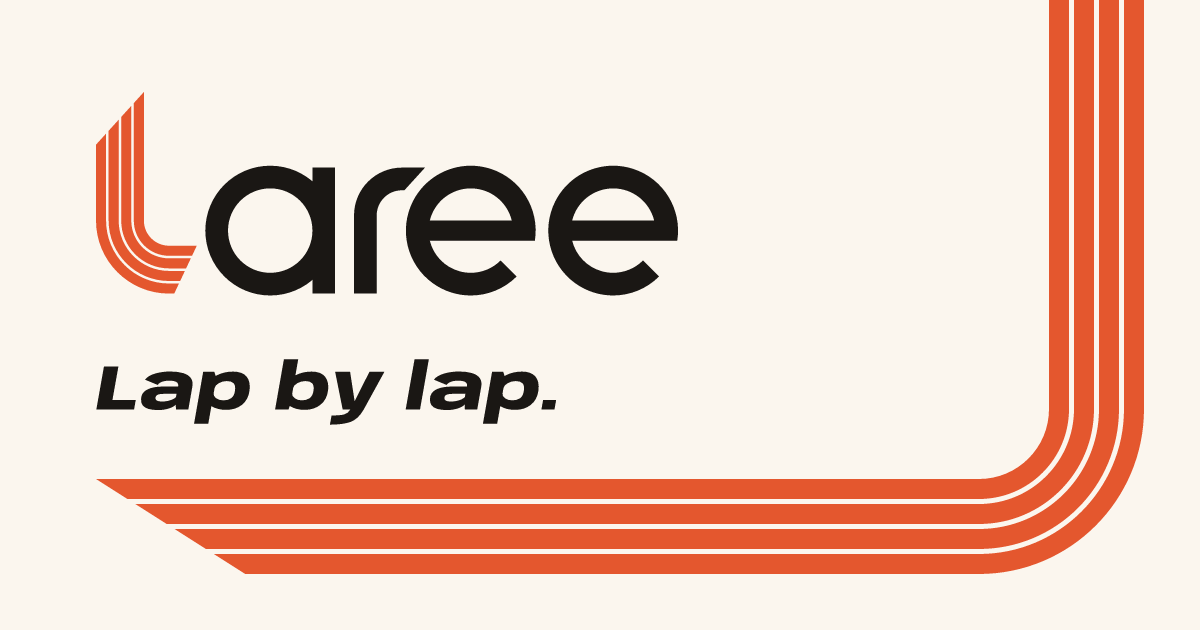
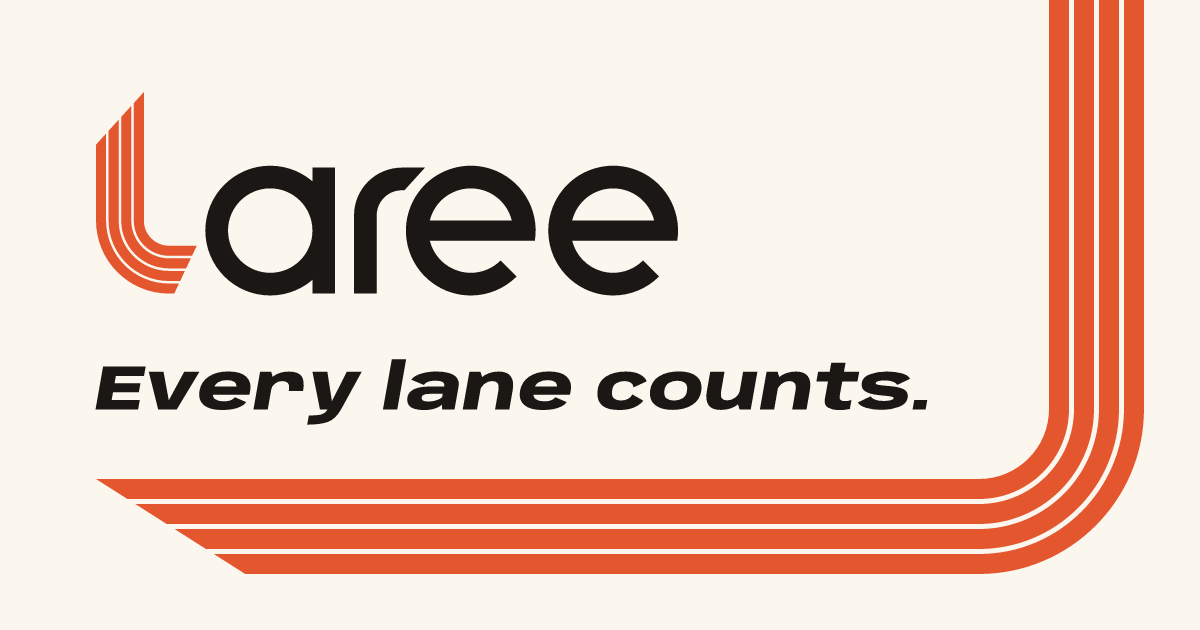
feat(brand): tagline "Every lane counts."
Social image, brand board, role picker, docs. Fix brand board sideways scroll on phones.

Changed region(s): [[0.0925, 0.573, 0.7708, 0.6937]]

diff --git a/src/features/shared/brand/BrandPage.tsx b/src/features/shared/brand/BrandPage.tsx
@@ -9,7 +9,8 @@ import {
   SEMANTIC,
   SPORTS,
   STATUSES,
-  TAGLINES,
+  TAGLINE,
+  TAGLINE_RULES,
   ZONES,
 } from './content.ts'
 import type { Ground, LogoFile } from './content.ts'
@@ -115,7 +116,7 @@ export default function BrandPage() {
           <Logo size={88} title="Laree" />
         </div>
         <h1 className={styles.title}>Brand board</h1>
-        <p className={styles.tagline}>Lap by lap.</p>
+        <p className={styles.tagline}>{TAGLINE.line}</p>
         <p className={styles.heroNote}>
           The l is a 400 m track bend, drawn with lane lines and a real track stagger. This page holds every logo file,
           the colours, the type and the rules for using them.
@@ -125,7 +126,7 @@ export default function BrandPage() {
           <a href="#colour">Colour</a>
           <a href="#type">Type</a>
           <a href="#rules">Rules</a>
-          <a href="#voice">Taglines</a>
+          <a href="#voice">Tagline</a>
         </nav>
       </header>
 
@@ -318,15 +319,19 @@ export default function BrandPage() {
         </div>
       </Section>
 
-      <Section id="voice" title="Two candidate taglines" lede="The recommendation is the first as the tagline and the second as the line that explains the logo. The decision is not made yet.">
-        <div className={styles.taglines}>
-          {TAGLINES.map((t) => (
-            <figure key={t.line} className={styles.taglineCard}>
-              <blockquote className={styles.taglineText}>{t.line}</blockquote>
-              <figcaption>{t.job}</figcaption>
-            </figure>
+      <Section id="voice" title="The tagline" lede="One line. It says in words what the logo shows.">
+        <figure className={styles.taglineCard}>
+          <blockquote className={styles.taglineText}>{TAGLINE.line}</blockquote>
+          <figcaption>{TAGLINE.meaning}</figcaption>
+        </figure>
+        <ul className={styles.rules}>
+          {TAGLINE_RULES.map((r) => (
+            <li key={r.title} className={styles.rule}>
+              <h3>{r.title}</h3>
+              <p>{r.body}</p>
+            </li>
           ))}
-        </div>
+        </ul>
       </Section>
     </div>
   )

diff --git a/src/features/shared/brand/BrandPage.module.css b/src/features/shared/brand/BrandPage.module.css
@@ -40,7 +40,11 @@
     font-stretch: 125%;
     font-weight: 800;
     font-style: italic;
-    font-size: var(--text-2xl);
+    font-synthesis: none;
+    /* Fluid, so the tagline stays on one line on a phone. Never below 21 px: large type only. */
+    font-size: clamp(var(--text-lg), 6vw, var(--text-2xl));
+    line-height: 1.1;
+    text-wrap: balance;
     color: var(--color-display-accent);
   }
 
@@ -350,6 +354,7 @@
     display: grid;
     gap: var(--space-2);
     align-content: start;
+    min-inline-size: 0;
     padding: var(--space-4);
     border: var(--hairline) solid var(--color-rule-strong);
     border-radius: var(--radius-card);
@@ -368,7 +373,9 @@
     line-height: 1.05;
     font-family: var(--font-display);
     font-synthesis: none;
-    font-size: var(--text-3xl);
+    /* Ten expanded digits are one unbreakable word: scale them so a phone never scrolls sideways. */
+    font-size: clamp(var(--text-lg), 8vw, var(--text-3xl));
+    overflow-wrap: anywhere;
   }
 
   .athleteDisplay {
@@ -474,17 +481,11 @@
     padding-inline-start: var(--space-5);
   }
 
-  /* Taglines */
-  .taglines {
-    display: grid;
-    grid-template-columns: repeat(auto-fit, minmax(min(100%, 380px), 1fr));
-    gap: var(--space-4);
-  }
-
+  /* Tagline */
   .taglineCard {
     display: grid;
     gap: var(--space-3);
-    margin: 0;
+    margin: 0 0 var(--space-2);
     padding: var(--space-6);
     border: var(--hairline) solid var(--color-rule-strong);
     border-radius: var(--radius-card);
@@ -499,13 +500,14 @@
     font-weight: 800;
     font-style: italic;
     font-synthesis: none;
-    font-size: var(--text-3xl);
+    font-size: clamp(var(--text-2xl), 7vw, var(--text-4xl));
     line-height: 1.05;
+    text-wrap: balance;
     color: var(--color-display-accent);
   }
 
   .taglineCard figcaption {
-    font-size: var(--text-sm);
+    max-inline-size: 34em;
     color: var(--color-text-muted);
   }
 

diff --git a/src/features/shared/brand/content.ts b/src/features/shared/brand/content.ts
@@ -146,7 +146,14 @@ export const RULES: { title: string; body: string }[] = [
   { title: 'No effects', body: 'No gradients, shadows, glows, bevels or 3D, and no purple in brand artwork.' },
 ]
 
-export const TAGLINES: { line: string; job: string }[] = [
-  { line: 'Lap by lap.', job: 'The tagline. Fitness is built one session and one week at a time. It sits under the wordmark on the social image, in store listings and on sign-in.' },
-  { line: 'Every lane counts.', job: 'The idea behind the logo. Every athlete matters equally, just as every lane runs the same distance. Use it where the logo is explained.' },
+/** The tagline, chosen by the product owner in November 2026. */
+export const TAGLINE = {
+  line: 'Every lane counts.',
+  meaning: 'Every athlete matters equally, just as every lane in the logo runs the same distance.',
+}
+
+export const TAGLINE_RULES: { title: string; body: string }[] = [
+  { title: 'Where it goes', body: 'Under the wordmark on the social image, in store listings and on sign-in, and wherever the logo is explained.' },
+  { title: 'How to write it', body: 'Sentence case, with its full stop. In artwork, set it in Anybody at width 125, weight 800, italic.' },
+  { title: 'Not these', body: 'Never "Lari lah" or "Jom lari": apps called Lari La and JomRun already exist. "Lap by lap." was the other candidate and is not a tagline.' },
 ]

diff --git a/src/features/shared/brand/BrandPage.test.tsx b/src/features/shared/brand/BrandPage.test.tsx
@@ -39,11 +39,13 @@ describe('BrandPage', () => {
     }
   })
 
-  it('shows the heading, both taglines and a hex for every palette entry', () => {
+  it('shows the heading, the tagline and a hex for every palette entry', () => {
     render(<BrandPage />)
     expect(screen.getByRole('heading', { level: 1, name: 'Brand board' })).toBeTruthy()
-    expect(screen.getAllByText('Lap by lap.').length).toBeGreaterThan(0)
-    expect(screen.getByText('Every lane counts.')).toBeTruthy()
+    // Under the logo in the hero, and again in its own section.
+    expect(screen.getAllByText('Every lane counts.')).toHaveLength(2)
+    // The other candidate is named in a rule, never set as a line of its own.
+    expect(screen.queryByText('Lap by lap.')).toBeNull()
     expect(screen.getAllByText('#E4572E').length).toBeGreaterThan(0)
   })
 })

diff --git a/src/app/RolePicker.module.css b/src/app/RolePicker.module.css
@@ -30,6 +30,28 @@
     gap: var(--space-4);
   }
 
+  /* The logo and its tagline are one lockup, as on the social image. */
+  .lockup {
+    display: grid;
+    justify-items: start;
+    gap: var(--space-2);
+  }
+
+  /* 21 px at weight 800 counts as large type, so the display accent is allowed. */
+  .tagline {
+    margin: 0;
+    font-family: var(--font-display);
+    font-variation-settings: "wdth" 125;
+    font-stretch: 125%;
+    font-weight: 800;
+    font-style: italic;
+    font-synthesis: none;
+    font-size: var(--text-lg);
+    line-height: 1.1;
+    text-wrap: balance;
+    color: var(--color-display-accent);
+  }
+
   .title {
     font-size: clamp(var(--text-3xl), 9vw, var(--text-4xl));
     line-height: 1;

diff --git a/src/app/RolePicker.tsx b/src/app/RolePicker.tsx
@@ -34,7 +34,10 @@ export function RolePicker() {
     <div className={styles.page} data-register="athlete" data-screen="S1">
       <div className={styles.lanes} aria-hidden="true" />
       <header className={styles.hero}>
-        <Logo size={72} title="Laree" />
+        <div className={styles.lockup}>
+          <Logo size={72} title="Laree" />
+          <p className={styles.tagline}>Every lane counts.</p>
+        </div>
         <h1 className={styles.title}>Who are you today?</h1>
         <p className={styles.lede}>
           A training planner for triathlon, running and cycling. This is a prototype with made-up data, kept only on

diff --git a/scripts/brand/build-logo.ts b/scripts/brand/build-logo.ts
@@ -84,13 +84,13 @@ function ogImage(tagFont: Outliner): string {
   const top = 92;
   const word = path(C.track, placePath(g.track, s, left, top)) + path(C.ink, placePath(g.letters, s, left, top));
 
-  const tag = tagFont('Lap by lap.', 64, left, top + g.baseline * s + 116);
+  const tag = tagFont('Every lane counts.', 64, left, top + g.baseline * s + 116);
 
   return doc({
     w: W,
     h: H,
     viewBox: `0 0 ${W} ${H}`,
-    title: 'Laree. Lap by lap.',
+    title: 'Laree. Every lane counts.',
     body: rect(0, 0, W, H, C.paper) + path(C.track, bend) + word + path(C.ink, tag.d),
   });
 }

diff --git a/index.html b/index.html
@@ -15,7 +15,7 @@
     <meta property="og:title" content="Laree" />
     <meta property="og:description" content="Training planner for triathlon, running and cycling. A prototype with made-up data." />
     <meta property="og:image" content="./og.png" />
-    <meta property="og:image:alt" content="The Laree wordmark and the tagline Lap by lap." />
+    <meta property="og:image:alt" content="The Laree wordmark and the tagline Every lane counts." />
   </head>
   <body>
     <div id="root"></div>

diff --git a/src/features/shared/brand/assets.ts b/src/features/shared/brand/assets.ts
@@ -39,7 +39,7 @@ export const FILE_BYTES: Record<string, number> = {
   'laree-wordmark-solid.svg': 955,
   'laree-wordmark.svg': 1260,
   'misuse.svg': 82223,
-  'og-image.svg': 6426,
+  'og-image.svg': 8550,
   'laree-app-icon-1024.png': 24897,
   'laree-mark-1024.png': 27219,
   'laree-mark-512.png': 11167,

diff --git a/docs/brand/brand-guide.md b/docs/brand/brand-guide.md
@@ -164,14 +164,17 @@ Two product rules shape the copy as well:
 
 In running text, write **Laree**: a capital L, then lowercase. Never write LAREE, Lari or Larée. The lowercase "laree" belongs to the logo only. The name is said la-REE.
 
-## Taglines
+## Tagline
 
-There are two lines, and each has a job.
+**Every lane counts.**
 
-- **Lap by lap.** This is the tagline. It is about patience: fitness is built one session and one week at a time. It sits under the wordmark on the social image, in store listings and on the sign-in screen.
-- **Every lane counts.** This is the idea behind the brand. Use it where the logo is explained, such as the about page, the coach's onboarding or a slide in a talk. It says that every athlete matters equally, just as every lane in the logo runs the same distance.
+This is the tagline, and it is also the idea behind the brand: every athlete matters equally, just as every lane in the logo runs the same distance. The product owner chose it in November 2026.
 
-The recommendation is "Lap by lap." as the tagline, with "Every lane counts." as the line that explains the logo. [PRODUCT.md](../../PRODUCT.md) lists the tagline as undecided, so the product owner has the final word.
+- It sits under the wordmark on the social image, in store listings and on the sign-in screen. In the prototype it sits under the logo on the role picker.
+- Use it wherever the logo is explained, such as the about page, the coach's onboarding or a slide in a talk.
+- Write it in sentence case, with its full stop. In artwork it is set in Anybody at width 125, weight 800, italic.
+
+"Lap by lap." was the other candidate. It is not a tagline, so never set it under the wordmark.
 
 Never use "Lari lah" or "Jom lari". Apps called "Lari La" and JomRun already exist, and a line like that would read as theirs.
 
@@ -200,7 +203,7 @@ Never use "Lari lah" or "Jom lari". Apps called "Lari La" and JomRun already exi
 
 **Favicons.** At 16, 32 and 48 px a four-lane bend cannot be drawn honestly, so the favicons are separate drawings in whole pixels. Each is an upright two-lane L on an ink tile, with lane widths chosen so that every straight edge lands on a pixel. The bend is tightened so the L reads as a letter rather than a hook. The stagger survives at this size: in each favicon, both lanes run the same distance. `public/favicon.ico` holds the 16, 32 and 48 px drawings, and `public/favicon.svg` is the 32 px drawing.
 
-**Social image.** The social image (`public/og.png`, 1200 × 630) puts the wordmark and "Lap by lap." on paper, with a large four-lane bend wrapping the lower right corner.
+**Social image.** The social image (`public/og.png`, 1200 × 630) puts the wordmark and "Every lane counts." on paper, with a large four-lane bend wrapping the lower right corner.
 
 Add these lines to the `<head>` of `index.html`. The build uses `base: './'`, so the paths are relative. Open Graph needs an absolute URL, so replace the placeholder with the deployed address.
 
@@ -212,7 +215,7 @@ Add these lines to the `<head>` of `index.html`. The build uses `base: './'`, so
 <meta name="theme-color" content="#FBF6EE" media="(prefers-color-scheme: light)" />
 <meta name="theme-color" content="#14110E" media="(prefers-color-scheme: dark)" />
 <meta property="og:image" content="https://DEPLOYED-ADDRESS/og.png" />
-<meta property="og:image:alt" content="The Laree wordmark and the tagline Lap by lap." />
+<meta property="og:image:alt" content="The Laree wordmark and the tagline Every lane counts." />
 ```
 
 The web app manifest lists the icons like this:

diff --git a/docs/ia/screen-inventory.md b/docs/ia/screen-inventory.md
@@ -93,7 +93,7 @@ Structure, routes, flows and naming live in `docs/ia/information-architecture.md
 - **Purpose.** Let a visitor choose who to view the prototype as, and say plainly what the prototype is.
 - **Main question.** "Who do I want to see Laree as?"
 - **Data shown.**
-  1. The Laree wordmark, a tagline candidate, and one line: "A training planner for triathlon, running and cycling. This is a prototype with made-up data, kept only on this device."
+  1. The Laree wordmark, the tagline ("Every lane counts."), and one line: "A training planner for triathlon, running and cycling. This is a prototype with made-up data, kept only on this device."
   2. "Continue as Amir" (or whichever role was last used), for returning visitors.
   3. Four role cards. Coach: "Plan and review the team. Best on a laptop." Amir: "70.3 triathlete. Teluk Half in 10 weeks." Danial: "Marathoner. Kota Marathon in 12 weeks." Irfan: "Gran-fondo cyclist. Cameron Gran Fondo in 9 weeks." The weeks to go come from the data.
   4. Links: Brand board, UI kit, Reset demo data.
@@ -133,7 +133,7 @@ A bar at the top of every route.
   2. Icons: app icon, maskable icon, monochrome icon, and favicons at 32 and 16 px. The 1200 × 630 social image.
   3. Colour: the palette with names, hex values and contrast pairs; sport colours; the intensity heat ramp from sand to oxblood; status colours with their glyphs.
   4. Type: Anybody in expanded italic (race day) and condensed (results sheet); Atkinson Hyperlegible Next and Atkinson Hyperlegible Mono.
-  5. The icon set, voice samples and tagline candidates ("Lap by lap." and "Every lane counts.").
+  5. The icon set, voice samples and the tagline ("Every lane counts.").
 - **Primary action.** Download an asset as SVG or PNG.
 - **Secondary actions.** Copy a hex value. Jump to a section. Switch the theme to see dark variants.
 - **States.**

diff --git a/PRODUCT.md b/PRODUCT.md
@@ -66,11 +66,12 @@ Laree's claim is a combination that neighbouring products do not offer together.
 - AI is opt-in per user and off by default, with two consent layers (athlete and coach). The prototype shows only template output labelled "Simulated AI - prototype". The MVP plans `claude-haiku-5-5` for summaries and `claude-sonnet-5-5` for plan proposals, called from a server. Flags are always rule-based.
 - All rights reserved. The code is not open source.
 
-**Undecided.** The tagline ("Lap by lap." or "Every lane counts."), whether athletes see their own flags, who edits thresholds, a Bahasa Melayu interface, notifications, pricing, and the order of device integrations in the MVP.
+**Undecided.** Whether athletes see their own flags, who edits thresholds, a Bahasa Melayu interface, notifications, pricing, and the order of device integrations in the MVP.
 
 ## Brand Commitments
 
 - **Name:** Laree, said la-REE, coined from the Malay "lari" (run). Never use "Lari lah" or "Jom lari" as taglines, because the apps "Lari La" and JomRun exist.
+- **Tagline:** "Every lane counts." Every athlete matters equally, just as every lane in the logo runs the same distance. The product owner chose it in November 2026.
 - **Logo and palette:** the L is drawn as a 400 m track corner with lane lines, followed by "aree", and the palette is called "hot track". Both are locked. `DESIGN.md` and `docs/brand/` hold the details.
 - **Two registers, one token set:** the athlete side is very fun, dead easy to navigate and mobile-first. The coach side is a precision instrument for the desktop.
 - **Crafted, not generic:** the product owner rejects a "vibecoded" look.
